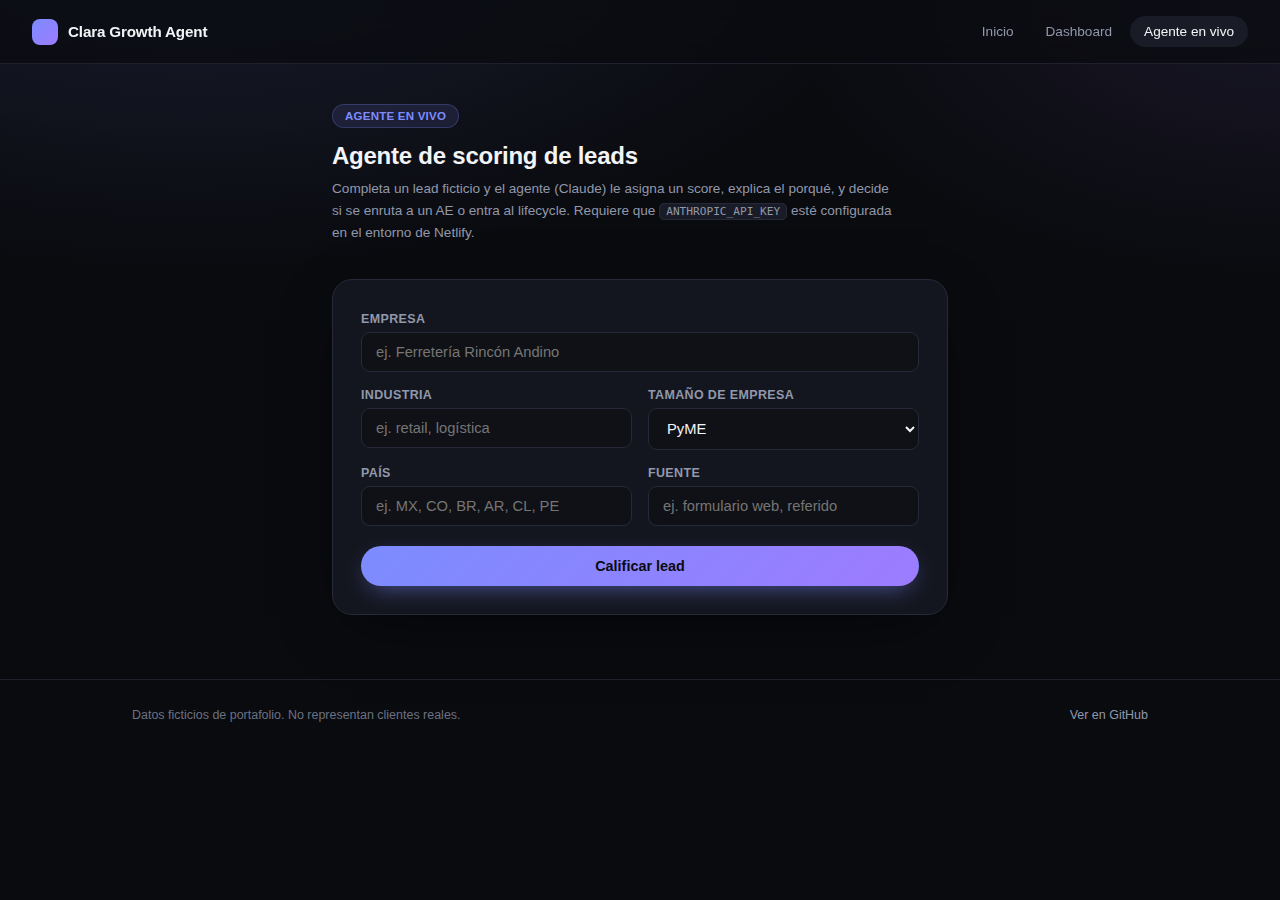
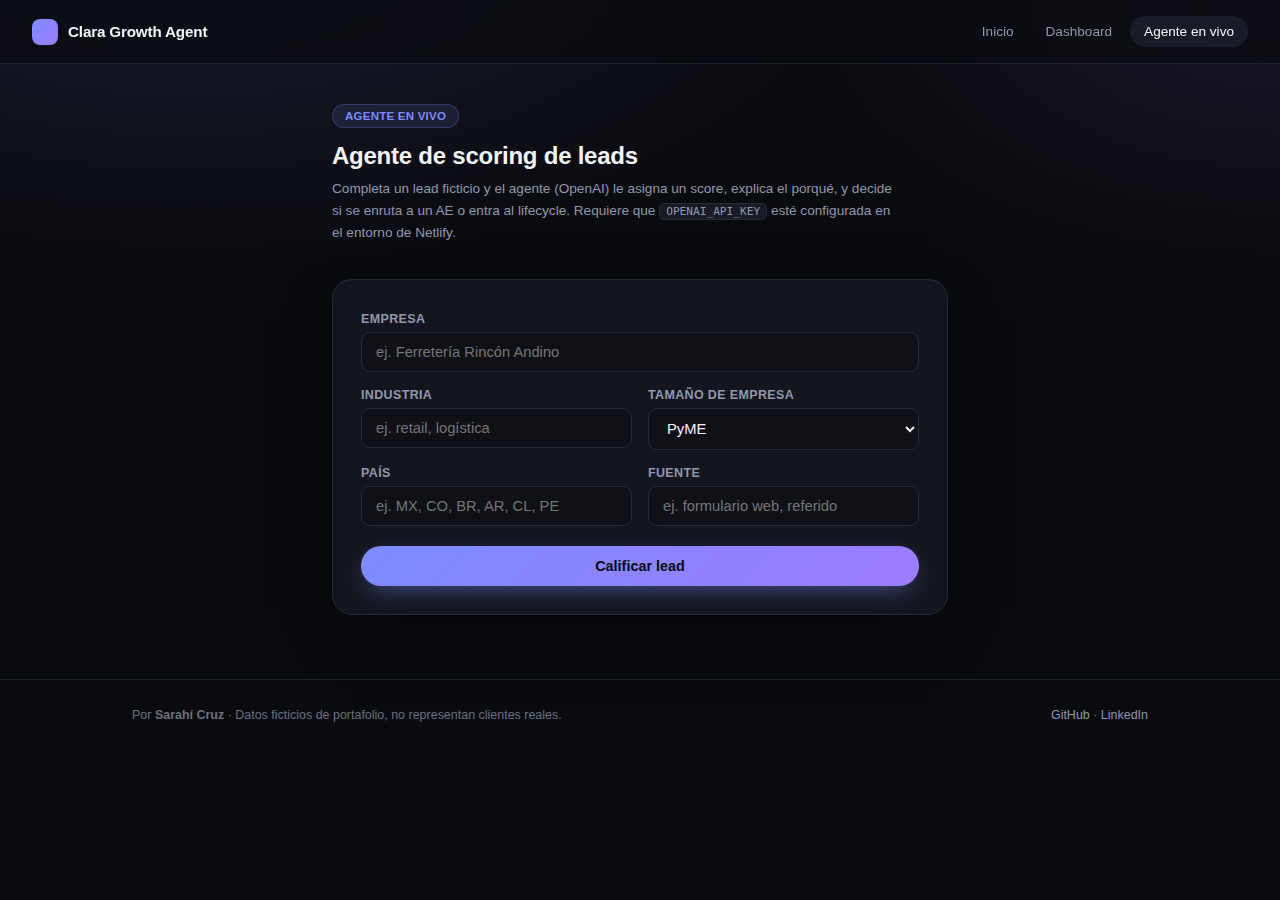
Migrar de Claude a OpenAI API, agregar autoria
- netlify/functions/score-lead.js y generate-message.js ahora llaman
  a la API de OpenAI (gpt-4o-mini) en vez de Anthropic
- Reemplazadas todas las menciones de Claude/Anthropic en README,
  docs/workflow.md, docs/data-model.md, docs/workflow.n8n.json y las
  paginas HTML
- Datos historicos en Supabase (modelo_usado/generado_por) actualizados
  para reflejar el nuevo proveedor
- Footer y README con autoria: Sarahi Cruz + links a GitHub y LinkedIn
- OPENAI_API_KEY configurada en Netlify

Claude-Session: https://claude.ai/code/session_01N2B1UbG9DVTxaJyeua4awE

diff --git a/netlify/functions/score-lead.js b/netlify/functions/score-lead.js
@@ -1,11 +1,11 @@
-// Netlify Function: recibe datos de un lead ficticio, llama a Claude para
-// calificarlo (score + razones + routing) y, si hay credenciales de Supabase
+// Netlify Function: recibe datos de un lead ficticio, llama a la API de OpenAI
+// para calificarlo (score + razones + routing) y, si hay credenciales de Supabase
 // configuradas, guarda el resultado para que aparezca en el Agent Activity Log.
 //
 // Variables de entorno requeridas (configurar en Netlify, nunca en el repo):
-//   ANTHROPIC_API_KEY        — API key de Anthropic
+//   OPENAI_API_KEY            — API key de OpenAI
 //   SUPABASE_URL              — URL del proyecto Supabase
-//   SUPABASE_SERVICE_ROLE_KEY — service role key (solo server-side, nunca en el cliente)
+//   SUPABASE_SERVICE_ROLE_KEY — service role / secret key (solo server-side, nunca en el cliente)
 
 const SCORING_PROMPT = `Eres un agente de calificación de leads B2B para una fintech
 que atiende PyMEs y empresas medianas en LatAm. Dado el siguiente lead ficticio,
@@ -17,18 +17,20 @@ Reglas: score >= 70 y buena señal de intención/fit -> "ae". Si no, "lifecycle"
 Lead:
 `;
 
+const MODEL = "gpt-4o-mini";
+
 exports.handler = async (event) => {
   if (event.httpMethod !== "POST") {
     return { statusCode: 405, body: "Method Not Allowed" };
   }
 
-  const apiKey = process.env.ANTHROPIC_API_KEY;
+  const apiKey = process.env.OPENAI_API_KEY;
   if (!apiKey) {
     return {
       statusCode: 501,
       body: JSON.stringify({
         error:
-          "ANTHROPIC_API_KEY no está configurada en este entorno de Netlify. Este endpoint requiere una API key de Anthropic para funcionar.",
+          "OPENAI_API_KEY no está configurada en este entorno de Netlify. Este endpoint requiere una API key de OpenAI para funcionar.",
       }),
     };
   }
@@ -51,16 +53,15 @@ exports.handler = async (event) => {
   }
 
   try {
-    const claudeRes = await fetch("https://api.anthropic.com/v1/messages", {
+    const openaiRes = await fetch("https://api.openai.com/v1/chat/completions", {
       method: "POST",
       headers: {
         "content-type": "application/json",
-        "x-api-key": apiKey,
-        "anthropic-version": "2023-06-01",
+        authorization: `Bearer ${apiKey}`,
       },
       body: JSON.stringify({
-        model: "claude-sonnet-5",
-        max_tokens: 300,
+        model: MODEL,
+        response_format: { type: "json_object" },
         messages: [
           {
             role: "user",
@@ -70,23 +71,22 @@ exports.handler = async (event) => {
       }),
     });
 
-    if (!claudeRes.ok) {
-      const text = await claudeRes.text();
+    if (!openaiRes.ok) {
+      const text = await openaiRes.text();
       return {
         statusCode: 502,
-        body: JSON.stringify({ error: "Error llamando a Claude", detail: text }),
+        body: JSON.stringify({ error: "Error llamando a la API de OpenAI", detail: text }),
       };
     }
 
-    const claudeData = await claudeRes.json();
-    const textBlock = claudeData.content?.find((c) => c.type === "text");
-    const parsed = JSON.parse(textBlock.text);
+    const openaiData = await openaiRes.json();
+    const parsed = JSON.parse(openaiData.choices[0].message.content);
 
     const result = {
       score: parsed.score,
       razones: parsed.razones,
       resultado_routing: parsed.resultado_routing,
-      modelo_usado: "claude-sonnet-5",
+      modelo_usado: MODEL,
     };
 
     const supabaseUrl = process.env.SUPABASE_URL;

diff --git a/netlify/functions/generate-message.js b/netlify/functions/generate-message.js
@@ -1,9 +1,9 @@
 // Netlify Function: dado un lead calificado (con score/routing ya calculado),
-// genera con Claude el siguiente mensaje del flujo — outreach si va a AE,
-// o el siguiente paso de lifecycle (onboarding/activacion/retencion) si no.
+// genera con la API de OpenAI el siguiente mensaje del flujo — outreach si va a
+// AE, o el siguiente paso de lifecycle (onboarding/activacion/retencion) si no.
 //
 // Variables de entorno requeridas (Netlify, nunca en el repo):
-//   ANTHROPIC_API_KEY, SUPABASE_URL, SUPABASE_SERVICE_ROLE_KEY (esta última opcional,
+//   OPENAI_API_KEY, SUPABASE_URL, SUPABASE_SERVICE_ROLE_KEY (esta última opcional,
 //   solo se usa si se quiere persistir el mensaje contra un lead_id real)
 
 const MESSAGE_PROMPT = `Eres un agente de lifecycle marketing y outreach para una
@@ -22,18 +22,20 @@ Devuelve SOLO un JSON con esta forma exacta, sin texto adicional:
 Lead:
 `;
 
+const MODEL = "gpt-4o-mini";
+
 exports.handler = async (event) => {
   if (event.httpMethod !== "POST") {
     return { statusCode: 405, body: "Method Not Allowed" };
   }
 
-  const apiKey = process.env.ANTHROPIC_API_KEY;
+  const apiKey = process.env.OPENAI_API_KEY;
   if (!apiKey) {
     return {
       statusCode: 501,
       body: JSON.stringify({
         error:
-          "ANTHROPIC_API_KEY no está configurada en este entorno de Netlify. Este endpoint requiere una API key de Anthropic para funcionar.",
+          "OPENAI_API_KEY no está configurada en este entorno de Netlify. Este endpoint requiere una API key de OpenAI para funcionar.",
       }),
     };
   }
@@ -55,16 +57,15 @@ exports.handler = async (event) => {
   }
 
   try {
-    const claudeRes = await fetch("https://api.anthropic.com/v1/messages", {
+    const openaiRes = await fetch("https://api.openai.com/v1/chat/completions", {
       method: "POST",
       headers: {
         "content-type": "application/json",
-        "x-api-key": apiKey,
-        "anthropic-version": "2023-06-01",
+        authorization: `Bearer ${apiKey}`,
       },
       body: JSON.stringify({
-        model: "claude-sonnet-5",
-        max_tokens: 300,
+        model: MODEL,
+        response_format: { type: "json_object" },
         messages: [
           {
             role: "user",
@@ -74,24 +75,23 @@ exports.handler = async (event) => {
       }),
     });
 
-    if (!claudeRes.ok) {
-      const text = await claudeRes.text();
+    if (!openaiRes.ok) {
+      const text = await openaiRes.text();
       return {
         statusCode: 502,
-        body: JSON.stringify({ error: "Error llamando a Claude", detail: text }),
+        body: JSON.stringify({ error: "Error llamando a la API de OpenAI", detail: text }),
       };
     }
 
-    const claudeData = await claudeRes.json();
-    const textBlock = claudeData.content?.find((c) => c.type === "text");
-    const parsed = JSON.parse(textBlock.text);
+    const openaiData = await openaiRes.json();
+    const parsed = JSON.parse(openaiData.choices[0].message.content);
 
     const result = {
       canal: parsed.canal,
       tipo: parsed.tipo,
       contenido: parsed.contenido,
       timing_sugerido: parsed.timing_sugerido,
-      generado_por: "claude-sonnet-5 / prompt outreach-v1",
+      generado_por: `${MODEL} / prompt outreach-v1`,
     };
 
     const supabaseUrl = process.env.SUPABASE_URL;

diff --git a/public/index.html b/public/index.html
@@ -121,14 +121,14 @@
         Simula, con datos ficticios, el sistema que pide el rol de AI Growth &amp;
         Lifecycle Automation Engineer en Clara: agentes de prospección que califican
         leads, lifecycle multi-canal, routing a AE y un dashboard de métricas — todo
-        orquestado con la API de Claude.
+        orquestado con la API de OpenAI.
       </p>
       <div class="ctas">
         <a class="btn btn-primary" href="./dashboard.html">Ver dashboard de métricas →</a>
         <a class="btn btn-ghost" href="./agent.html">Probar el agente en vivo</a>
       </div>
       <div class="stack-row">
-        <span class="pill">Claude API</span>
+        <span class="pill">OpenAI API</span>
         <span class="pill">Supabase / Postgres</span>
         <span class="pill">Netlify Functions</span>
         <span class="pill">Workflow tipo n8n</span>
@@ -146,7 +146,7 @@
         <div class="card feature-card">
           <div class="icon">◎</div>
           <h3>Agente de calificación de leads</h3>
-          <p>Claude asigna score 0–100 y explica el porqué, en segundos, para cada lead ficticio.</p>
+          <p>El modelo de OpenAI asigna score 0–100 y explica el porqué, en segundos, para cada lead ficticio.</p>
           <div class="req">↳ Agentes/SDR que califican leads y agendan reuniones</div>
         </div>
         <div class="card feature-card">
@@ -191,7 +191,7 @@
       </div>
       <div class="steps">
         <div class="step"><h4>Lead entra</h4><p>Form o import CSV simulado</p></div>
-        <div class="step"><h4>Agente califica</h4><p>Claude asigna score + razones</p></div>
+        <div class="step"><h4>Agente califica</h4><p>El modelo asigna score + razones</p></div>
         <div class="step"><h4>Mensaje generado</h4><p>Outreach o siguiente paso de lifecycle</p></div>
         <div class="step"><h4>Routing a AE</h4><p>Si el score supera el umbral</p></div>
         <div class="step"><h4>Lifecycle</h4><p>Onboarding → activación → retención</p></div>
@@ -202,8 +202,8 @@
 
   <footer class="site-footer">
     <div class="shell">
-      <span>Datos ficticios de portafolio. No representan clientes reales.</span>
-      <span><a href="https://github.com/apogeoconsara/portafolioclara" target="_blank" rel="noopener">Ver en GitHub</a> · Independiente de cualquier otro proyecto</span>
+      <span>Por <strong>Sarahí Cruz</strong> · Datos ficticios de portafolio, no representan clientes reales.</span>
+      <span><a href="https://github.com/apogeoconsara/portafolioclara" target="_blank" rel="noopener">GitHub</a> · <a href="https://www.linkedin.com/in/sarahicruzsalazar/" target="_blank" rel="noopener">LinkedIn</a> · independiente de cualquier otro proyecto</span>
     </div>
   </footer>
 </body>

diff --git a/public/agent.html b/public/agent.html
@@ -68,9 +68,9 @@
       <span class="badge">Agente en vivo</span>
       <h1>Agente de scoring de leads</h1>
       <p>
-        Completa un lead ficticio y el agente (Claude) le asigna un score, explica el
+        Completa un lead ficticio y el agente (OpenAI) le asigna un score, explica el
         porqué, y decide si se enruta a un AE o entra al lifecycle. Requiere que
-        <code>ANTHROPIC_API_KEY</code> esté configurada en el entorno de Netlify.
+        <code>OPENAI_API_KEY</code> esté configurada en el entorno de Netlify.
       </p>
     </div>
 
@@ -116,8 +116,8 @@
 
   <footer class="site-footer">
     <div class="shell">
-      <span>Datos ficticios de portafolio. No representan clientes reales.</span>
-      <span><a href="https://github.com/apogeoconsara/portafolioclara" target="_blank" rel="noopener">Ver en GitHub</a></span>
+      <span>Por <strong>Sarahí Cruz</strong> · Datos ficticios de portafolio, no representan clientes reales.</span>
+      <span><a href="https://github.com/apogeoconsara/portafolioclara" target="_blank" rel="noopener">GitHub</a> · <a href="https://www.linkedin.com/in/sarahicruzsalazar/" target="_blank" rel="noopener">LinkedIn</a></span>
     </div>
   </footer>
 

diff --git a/public/dashboard.html b/public/dashboard.html
@@ -113,8 +113,8 @@
 
   <footer class="site-footer">
     <div class="shell">
-      <span>Datos ficticios de portafolio. No representan clientes reales.</span>
-      <span><a href="https://github.com/apogeoconsara/portafolioclara" target="_blank" rel="noopener">Ver en GitHub</a></span>
+      <span>Por <strong>Sarahí Cruz</strong> · Datos ficticios de portafolio, no representan clientes reales.</span>
+      <span><a href="https://github.com/apogeoconsara/portafolioclara" target="_blank" rel="noopener">GitHub</a> · <a href="https://www.linkedin.com/in/sarahicruzsalazar/" target="_blank" rel="noopener">LinkedIn</a></span>
     </div>
   </footer>
 

diff --git a/README.md b/README.md
@@ -1,7 +1,8 @@
 # Clara Growth & Lifecycle Agent — Demo
 
-> Pieza de portafolio construida para demostrar cobertura del rol **AI Growth & Lifecycle
-> Automation Engineer** en [Clara](https://www.clara.com) (fintech B2B de LatAm).
+> Pieza de portafolio construida por **Sarahí Cruz** ([GitHub](https://github.com/apogeoconsara/portafolioclara) ·
+> [LinkedIn](https://www.linkedin.com/in/sarahicruzsalazar/)) para demostrar cobertura del rol
+> **AI Growth & Lifecycle Automation Engineer** en [Clara](https://www.clara.com) (fintech B2B de LatAm).
 > Todos los datos (empresas, leads, mensajes) son **ficticios**, generados para ilustrar
 > el sistema, no una integración real con Clara ni con ningún cliente.
 
@@ -16,7 +17,7 @@ cada una de esas piezas con datos ficticios de PyMEs y empresas medianas de LatA
 
 | Feature del demo | Requisito de la vacante |
 |---|---|
-| Agente de calificación de leads (Claude API) que asigna score y razones | Agentes/workflows de prospección y SDR que califican leads |
+| Agente de calificación de leads (API de OpenAI) que asigna score y razones | Agentes/workflows de prospección y SDR que califican leads |
 | Generador de mensajes de outreach personalizados por segmento | Redacción de outreach personalizado (piensa Amplemarket/Clay) |
 | Workflow documentado tipo n8n (JSON exportable + diagrama) | Orquestación tipo n8n o código propio |
 | Motor de lifecycle (onboarding/activación/retención) con IA eligiendo canal, timing y contenido | Automatización de lifecycle por email/WhatsApp/push (piensa Customer.io) |
@@ -33,8 +34,8 @@ cada una de esas piezas con datos ficticios de PyMEs y empresas medianas de LatA
 
 ```mermaid
 flowchart LR
-    A[Lead entra\nform / import CSV] --> B[Agente calificador\nClaude API scoring 0-100]
-    B --> C[Generador de mensaje\nClaude redacta outreach]
+    A[Lead entra\nform / import CSV] --> B[Agente calificador\nOpenAI API scoring 0-100]
+    B --> C[Generador de mensaje\nOpenAI redacta outreach]
     C --> D{Router}
     D -->|score alto| E[Handoff a AE\nreunión agendada]
     D -->|score bajo/medio| F[Motor de Lifecycle\nemail / WhatsApp / push]
@@ -48,7 +49,7 @@ flowchart LR
 - **Frontend:** HTML/CSS/JS simple, desplegable en Netlify (evolucionará a Next.js ligero si aporta valor)
 - **Backend/datos:** Supabase (Postgres) — ver [`docs/data-model.md`](docs/data-model.md)
 - **Automatización:** workflow documentado tipo n8n — ver [`docs/workflow.md`](docs/workflow.md) y su exportación en [`docs/workflow.n8n.json`](docs/workflow.n8n.json) (importable a una instancia n8n)
-- **IA:** API de Anthropic (Claude) para scoring de leads, redacción de mensajes y decisiones de siguiente paso en el lifecycle
+- **IA:** API de OpenAI (modelo `gpt-4o-mini`) para scoring de leads, redacción de mensajes y decisiones de siguiente paso en el lifecycle
 
 ## Estructura del repo
 
@@ -67,11 +68,11 @@ flowchart LR
 ## Plan de fases
 
 - **Fase 0 (completa):** estructura del repo, README, modelo de datos, diagrama de workflow, esqueleto desplegable en Netlify
-- **Fase 1 (completa):** tablas en Supabase + seed de 14 leads ficticios de PyMEs/medianas de LatAm, función serverless (`netlify/functions/score-lead.js`) que llama a Claude para scoring en vivo, dashboard con las 4 vistas leyendo datos reales de Supabase
-- **Fase 2 (completa):** `netlify/functions/generate-message.js` genera el siguiente mensaje del flujo (outreach a AE, o siguiente paso de lifecycle) en vivo con Claude; `public/agent.html` encadena scoring → mensaje en un solo flujo; workflow exportado como JSON tipo n8n en [`docs/workflow.n8n.json`](docs/workflow.n8n.json)
+- **Fase 1 (completa):** tablas en Supabase + seed de 14 leads ficticios de PyMEs/medianas de LatAm, función serverless (`netlify/functions/score-lead.js`) que llama a la API de OpenAI para scoring en vivo, dashboard con las 4 vistas leyendo datos reales de Supabase
+- **Fase 2 (completa):** `netlify/functions/generate-message.js` genera el siguiente mensaje del flujo (outreach a AE, o siguiente paso de lifecycle) en vivo con OpenAI; `public/agent.html` encadena scoring → mensaje en un solo flujo; workflow exportado como JSON tipo n8n en [`docs/workflow.n8n.json`](docs/workflow.n8n.json)
 - **Fase 3 (completa):** favicon, capturas embebidas en este README, ajustes finales de UX
 
-## Configuración (Netlify + Supabase + Anthropic)
+## Configuración (Netlify + Supabase + OpenAI)
 
 El proyecto Supabase (`clara-growth-agent-demo`) es independiente de cualquier otro
 proyecto — base de datos, credenciales y URL propias. La URL y la anon/publishable key
@@ -84,18 +85,18 @@ variables de entorno en **Netlify → Site configuration → Environment variabl
 
 | variable | de dónde sale |
 |---|---|
-| `ANTHROPIC_API_KEY` | tu API key de Anthropic (console.anthropic.com) |
+| `OPENAI_API_KEY` | tu API key de OpenAI (platform.openai.com) |
 | `SUPABASE_URL` | `https://rvopsnpnzonjgdmjxzop.supabase.co` |
 | `SUPABASE_SERVICE_ROLE_KEY` | Supabase Dashboard → Project Settings → API (service role, solo server-side) |
 
-Sin `ANTHROPIC_API_KEY` configurada, el resto del sitio (dashboard con datos ya
+Sin `OPENAI_API_KEY` configurada, el resto del sitio (dashboard con datos ya
 sembrados) funciona igual — solo el endpoint de scoring en vivo devuelve un error
 explicando que falta la key.
 
 **Estado del deploy:** sitio en producción en Netlify
 (`https://clara-growth-agent-demo.netlify.app`), repo conectado vía Git,
-`SUPABASE_URL` y `SUPABASE_SERVICE_ROLE_KEY` configuradas. Falta `ANTHROPIC_API_KEY`
-para que el agente en vivo funcione end-to-end.
+`SUPABASE_URL`, `SUPABASE_SERVICE_ROLE_KEY` y `OPENAI_API_KEY` configuradas — el
+agente en vivo funciona end-to-end.
 
 ## Dashboard — pantallas
 
@@ -108,3 +109,8 @@ para que el agente en vivo funcione end-to-end.
 
 Proyecto de portafolio. Empresas, contactos, montos y conversaciones son ficticios y no
 representan datos reales de ningún cliente o empresa existente.
+
+## Autora
+
+**Sarahí Cruz** — [GitHub](https://github.com/apogeoconsara/portafolioclara) ·
+[LinkedIn](https://www.linkedin.com/in/sarahicruzsalazar/)

diff --git a/docs/workflow.md b/docs/workflow.md
@@ -9,9 +9,10 @@ replican los mismos pasos, si no se dispone de instancia n8n).
 1. **Trigger — Nuevo lead**
    Entrada vía formulario simulado o import CSV. Inserta fila en `leads` con estado `nuevo`.
 
-2. **Nodo: Calificar lead (Claude API)**
-   Envía los datos del lead a Claude con un prompt de scoring (industria, tamaño, fuente,
-   señales de intención). Devuelve score 0–100 + razones. Se guarda en `scoring_log`.
+2. **Nodo: Calificar lead (API de OpenAI)**
+   Envía los datos del lead a un modelo de OpenAI con un prompt de scoring (industria,
+   tamaño, fuente, señales de intención). Devuelve score 0–100 + razones. Se guarda en
+   `scoring_log`.
 
 3. **Nodo: Router (condicional)**
    - Si `score >= umbral` → rama **Handoff a AE**
@@ -19,12 +20,12 @@ replican los mismos pasos, si no se dispone de instancia n8n).
 
 4a. **Rama Handoff a AE**
    Actualiza `leads.estado = handoff_ae`, genera mensaje de agendamiento de reunión vía
-   Claude, se registra en `mensajes_generados` (tipo `outreach`).
+   la API de OpenAI, se registra en `mensajes_generados` (tipo `outreach`).
 
 4b. **Rama Lifecycle**
-   Actualiza `leads.estado = en_lifecycle`. Claude decide siguiente mejor acción (canal,
-   timing, contenido) según etapa (onboarding/activación/retención) y genera el mensaje,
-   registrado en `mensajes_generados`.
+   Actualiza `leads.estado = en_lifecycle`. El modelo decide siguiente mejor acción
+   (canal, timing, contenido) según etapa (onboarding/activación/retención) y genera
+   el mensaje, registrado en `mensajes_generados`.
 
 5. **Nodo: Registrar evento**
    Cada interacción (mensaje enviado, abierto, respondido, reunión agendada, activación,

diff --git a/docs/data-model.md b/docs/data-model.md
@@ -26,8 +26,8 @@ portafolio, no un CRM en producción.
 | id | uuid, pk | |
 | lead_id | uuid, fk → leads.id | |
 | score | int | 0–100 |
-| razones | text | explicación generada por Claude |
-| modelo_usado | text | ej. claude-sonnet-5 |
+| razones | text | explicación generada por el modelo de IA |
+| modelo_usado | text | ej. gpt-4o-mini |
 | resultado_routing | text | ae / lifecycle |
 | timestamp | timestamptz | |
 
